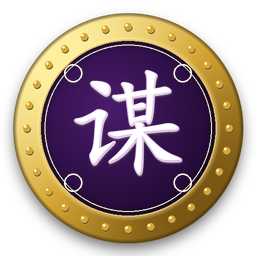
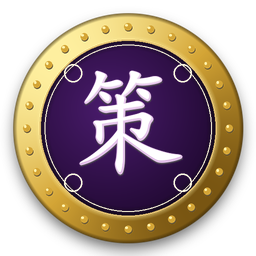
No more 法师 troop: its nine cards (方士, 道童, 符水信徒, 于吉, 张宁, 左慈, 唐周, 何仪, 张角) join the strategists, renamed 策士 (策); the 法师 宝物 now belong to the 策士 team; the strategist badge reads 策
Claude-Session: https://claude.ai/code/session_01KHm8b4T1h3CjcdmfBKpVSV

Changed region(s): [[0.2812, 0.25, 0.7188, 0.6875]]

diff --git a/tools/generate_ui_assets.py b/tools/generate_ui_assets.py
@@ -63,7 +63,7 @@ BADGE_STYLES = {
         "char_color": "#fce4ec", "char_shadow": "#140404", "char_rim": "#e57373"
     },
     "strategist": {
-        "char": "谋", "name": "谋士", "rim_type": "gold",
+        "char": "策", "name": "策士", "rim_type": "gold",
         "bg_inner": "#4a1c6d", "bg_outer": "#1c072b",
         "char_color": "#f3e5f5", "char_shadow": "#0e0217", "char_rim": "#ce93d8"
     },

diff --git a/.claude/skills/sanguo-dev/SKILL.md b/.claude/skills/sanguo-dev/SKILL.md
@@ -120,7 +120,7 @@ Adding a portrait, checklist:
 - **Card** (`cards.json` cards): `name, rarity (N = soldier, R/SR/SSR = general), troop, bonus {hp, at}, skills,
   person (shared portrait / one version in a party), pool (false = story or drop only), troop_skills (false = own skills
   replace the troop's)`. Every troop has two skills — a plain 1-AP move and a signature (骑 马刀/冲锋, 枪 刺击/枪阵,
-  弓 射击/齐射, 刀 步战/举盾, 谋 计略/献策 (+AP), 贼 劫掠/偷袭 (break), 法 妖术/符咒 (stun), 勤 包扎/鼓舞) — soldier
+  弓 射击/齐射, 刀 步战/举盾, 策 计略/献策 (+AP; 策士 took in the old 法师 troop — too few cards), 贼 劫掠/偷袭 (break), 勤 包扎/鼓舞) — soldier
   cards get only the plain move (精兵 marked `"elite": true` — 丹阳兵, 陷阵营, 白毦兵 … — get both); a general gets
   the plain move plus its own signature (or the troop's signature if it has none). Leader stat = 5 × own + troop members; soldier copies decay ×0.6; generals repeat → tiers
   铜 1 / 银 2 / 金 4 copies (`gacha.tiers`, frame `tier0/1/2` in ui.json).
